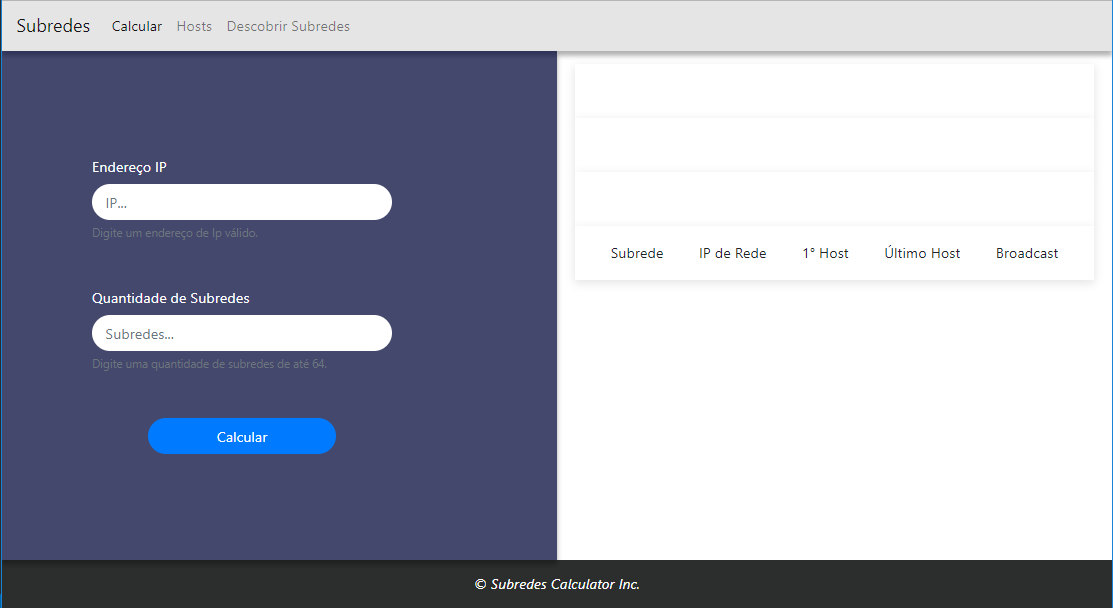
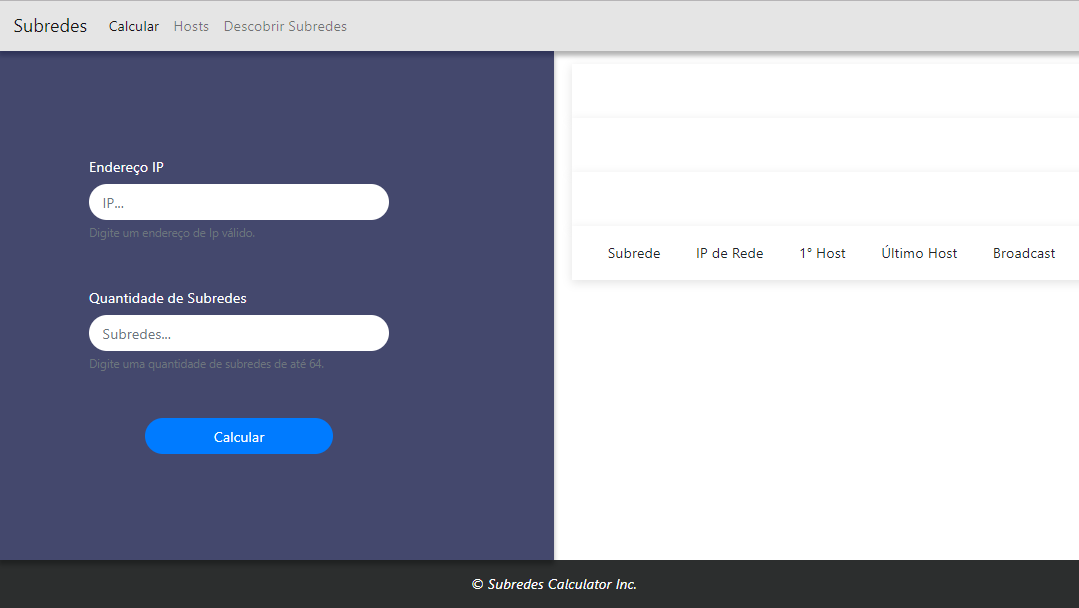
Atualização Portfólio

diff --git a/index.html b/index.html
@@ -149,7 +149,7 @@
                 <i class="fas fa-plus fa-3x"></i>
               </div>
             </div>
-            <img class="img-fluid" src="img/portfolio/subredescalc.png" alt="">
+            <img class="img-fluid" src="img/portfolio/subredescalc.png" alt="SubredesCalculator">
           </a>
           <div class="portfolio-caption">
             <h4>SubredesCalculator</h4>
@@ -163,7 +163,7 @@
                 <i class="fas fa-plus fa-3x"></i>
               </div>
             </div>
-            <img class="img-fluid" src="img/portfolio/02-thumbnail.jpg" alt="">
+            <img class="img-fluid" src="img/portfolio/energycalculator.png" alt="">
           </a>
           <div class="portfolio-caption">
             <h4>Explore</h4>
@@ -578,9 +578,9 @@
             <div class="col-lg-8 mx-auto">
               <div class="modal-body">
                 <!-- Project Details Go Here -->
-                <h2 class="text-uppercase">Project Name</h2>
-                <p class="item-intro text-muted">Lorem ipsum dolor sit amet consectetur.</p>
-                <img class="img-fluid d-block mx-auto" src="img/portfolio/02-full.jpg" alt="">
+                <h2 class="text-uppercase">Energy Calculator</h2>
+                <p class="item-intro text-muted">Aplicação para simulação de valor da conta de energia.</p>
+                <img class="img-fluid d-block mx-auto" src="img/portfolio/energycalculator.png" alt="">
                 <p>Use this area to describe your project. Lorem ipsum dolor sit amet, consectetur adipisicing elit. Est
                   blanditiis dolorem culpa incidunt minus dignissimos deserunt repellat aperiam quasi sunt officia
                   expedita beatae cupiditate, maiores repudiandae, nostrum, reiciendis facere nemo!</p>

diff --git a/public/css/agency.min.css b/public/css/agency.min.css
@@ -710,11 +710,7 @@ img.git{
     margin-bottom: 20px;
 }
 
-.service-heading{
-    margin-top: 20px;
-}
-
-.img-fluid{
+img.img-fluid{
     width: 400px;
     height: 200px;
 }
